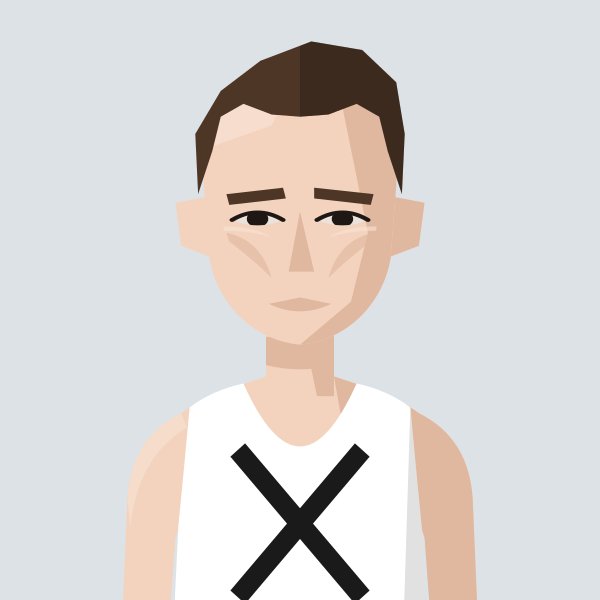
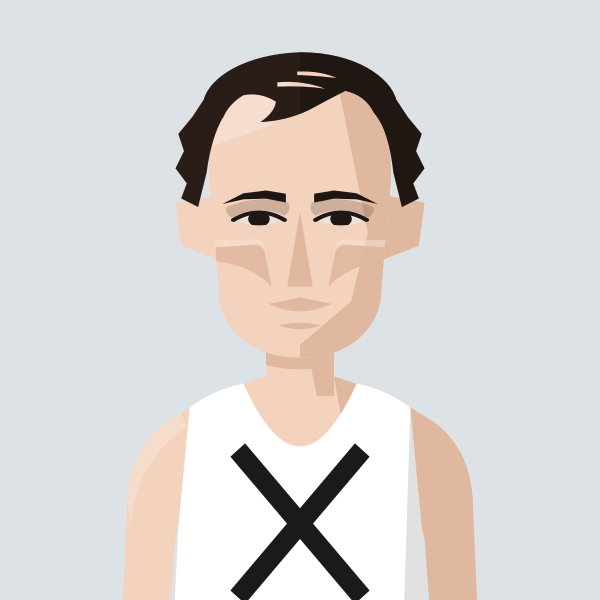
Redraw Alex Howard: thinning floppy top, bushy sides, long strong chin, deep-set eyes
Claude-Session: https://claude.ai/code/session_01MgmDWhFqnSSnP4iBLKXUZC

Changed region(s): [[0.27, 0.06, 0.72, 0.6]]

diff --git a/files/index.html b/files/index.html
@@ -827,7 +827,7 @@ const portraitFile=(name,club)=>{const k=normalizeNameForCompare(name||'').repla
 const portraitClubOf=(name,clubs)=>{for(const c of clubs||[]){if(c&&portraitFile(name,c))return c;}return null;}; /* first of these clubs we have a portrait for */
 // Athlete header figure: superstar portrait if we have one, else a grey runner in the club vest, else the plain vest icon
 // Changes whenever any portrait changes (set by tools/build_og.py), so browsers fetch fresh images instead of old cached ones
-const PORTRAIT_V='b96eb907';const PORTRAIT_WOMEN='abbey-brooke,abbie-bulbulian,adele-prince,aimee-hargreaves,aisling-ahern,alex-brown,alex-gandee,alex-marginean,alex-miller,alexa-parker,alexandra-barbour,alice-braham,alice-bridger-morales,alice-crane,alice-martin,alice-reed,alice-smith,alison-purnell,alison-thomson,amelia-pettitt,amy-clements,andrea-barber,anika-schwarze-chintapatla,anna-garnier,anna-garnier-hw,anna-sharp,annabel-hobday,annabelle-hadlow,anne-hegvold,annmarie-seymour,ava-mcandie,becky-briggs,bethan-goddard,bethanie-murray,bethany-brown,betsy-griffiths,billie-mcclosky,camilla-barden,caoimhe-nic-fhogartaigh,carolyne-baxter,catherine-bryson,catherine-eastham,catherine-kandie,cathy-ansell,charlotte-griffiths,chloe-beckett,chloe-tighe,chrissie-wellington,claire-grima,clara-pettit,clare-elms,clare-pauzers,dillan-quinn,dorchie-cockerell,eilidh-hide,elinor-skinner,eliza-grant,elizabeth-apsley,elizabeth-stavreski,ella-fennelly,ella-king-powrie,ella-may-hards,ella-newton,ellen-weir,ellie-brown,ellie-freeden,eloise-bull,emilie-arnoux,emily-barrett,emily-bradley,emily-lowery,emily-robbins,emma-gordon,emma-howsham,emma-lord,emma-rowland,estle-viljoen,evie-warren,felicity-cole,felicity-harrison,felicity-hayward,fi-maddocks,fiona-de-mauny,florence-wiggins,gabby-collison,gabriel-reynolds,gemma-newport,genevieve-blanch,georgia-curry,georgie-bruinvels,georgie-fenn,georgie-furze,georgie-grgec,gina-galbraith,grace-leyland,grace-richardson,hannah-edwards,hannah-english,heather-statham,heather-statham-cc,helena-corbin,helena-keenan,holly-nixon,holly-pan,imogen-mackie,imogen-wolsey,iona-cousland,isabel-bradley,isabel-brinsden,isabelle-pickett,isobel-hodder,jennifer-nandi,jennifer-smith,jess-reed,jess-saunders,jess-winfield,jessica-davies,jessica-lowe,jodie-favell,josephine-rhodes,julia-bleasdale,julia-wedmore,juliet-hodder,jurgita-levertaviciute,justine-lynch,karen-fenner,karen-xiang,karina-box,kate-axford,kate-williams,kathy-sharpe,katie-ellen-french,katie-good,katie-snowden,katy-hedgethorne,kitty-shepherd-cross,kristina-popadich,lara-bromilow,lara-mangan,laura-goodson,laura-miles,lauren-major,lea-adamson,lily-newton,lisa-bailey,lisa-thomas,lisa-thomas-hw,lizzie-goldie-scot,louise-cooper,lucy-jones,lucy-macalister,lucy-peters,lydia-blackmore,lydia-gallyer-barnett,maddie-mastrolonardo,maddy-whitman,maeve-kenny,margaret-coogan,martina-conner,mary-james,mary-setyabule,matilde-lomba,megan-gildea,mel-wilkins,mhairi-hall,mimi-corden-lloyd,molly-oconnor,molly-smith,monika-gajek,naomi-lenane,natalie-beadle,natalie-seymour,natasha-lodge,niamh-thompson,nicky-hayes,nicola-cartlidge,nicola-douglas,nikki-sturzaker,olivia-papaioannou,olivia-stillman,orna-mcginley,pamela-mchutchon,patricia-walker,patrizia-gnoato,penny-oliver,rachel-brown,rebecca-barrow,rebekah-edgar,ruby-carter,ruby-whyte-wilding,ruby-woolfe,sally-urquhart,sam-whiting,samantha-munday,sarah-astin,sarah-dewhirst,sarah-grover,sarah-hanley,sarah-holt,sarah-murphy,sarah-palmer,sarah-palmer-ran,sarah-riceman,sarah-young,saron-haileselase,serena-carter,sophie-cowper,sophie-harris,sophie-hicks,sophie-tooley,stacey-ward,steph-hewitt,steph-mccall,steph-mccall-cc,steph-mccall-slh,steph-mitchell,suzanne-swaine,suze-spalding,suzie-harvey,suzy-whatmough,teresa-murphy,tilly-heaton,tilly-heaton-bel,tish-jones,vic-cartwright,vicky-clarke,victoria-barthelmess,victoria-buck,vikki-filsell,zoe-doyle,zoe-macdonald,zuzana-nemeckova';const PORTRAIT_MEN='aaron-wilson,abdulla-elsadig,adam-leane,adrian-major,adrien-royer,alan-black,alan-mead,alex-brecker,alex-bruce-littlewood,alex-gutteridge,alex-harris,alex-howard,alex-janiaud,alex-lee,alex-lennon,alex-mills,alex-milne,alex-morales,alex-robinson,alex-yee,alexander-marks,amittai-ben-israel,andrew-cumine,andrew-green,andrew-penney,andrew-perfect,andrew-simms,andrew-warburton,andrius-jaksevicius,andy-coley-maud,andy-coley-maud-cc,andy-fyfe,andy-north,andy-paton,andy-weir,angus-butler,angus-lamb,anisse-ismaili,arlo-ludewick,arne-dumez,arthur-peel,ashley-goncalves,barnaby-day,barry-collins,barry-sawyer,ben-clarke,ben-coughlan,ben-harding,ben-hurley,ben-ireland,ben-millar,ben-paviour,ben-pearce,ben-racle,ben-revill,ben-reynolds,ben-scott,ben-toomer,benedict-whitby,benjamin-hilson,bernie-ford,bill-kerr,bill-weller,bill-weller-wal,bob-harrison,bob-holt,bob-lunnon,bob-rayman,bob-smith,bradley-courtney-pinn,brandon-dewar,brian-gorman,brian-wilder,caleb-hathaway,callum-stewart,cameron-dockerill,cameron-reilly,carl-delaney,charles-herrington,charlie-dabbs,charlie-dickinson,charlie-eastaugh,charlie-manning,charlie-pickett,charlie-rogers,charlie-sandison,charlie-walker,charlie-wyllie,che-compton,chris-busaileh,chris-busaileh-hhh,chris-greenwood,chris-keavey,chris-moss,chris-steer,chris-threadgold,chris-warren,christian-lee,christopher-parker,clive-gilby,clive-shippen,colin-high,colin-pearson,conall-mcnally,conall-whelan,craig-ruddy,dame-dibaba,dan-cliffe,dan-pettitt,daniel-shaw,daniel-wolff,darren-mead,dave-beard,dave-beaver,dave-glassborow,dave-holt,dave-taylor,david-anderson,david-bowers,david-grima,david-north,david-ogden,david-symons,david-walsh,david-williams,deron-fagan,dick-piotrowski,dimos-evangelidis,dominic-kiralyfi,don-anderson,don-faircloth,don-maclean,doug-maughan,duncan-rimmer,dylan-evans,dylan-mitchard,ed-brewer,ed-catmur,ed-gibson,ed-mallett,eddie-herridge,eddie-jodrell,eddie-rolls,edward-chuck,eoin-brady,eoin-molloy,ethan-mccolgan,falilou-kebe,findlay-dyer,finn-johnson,fintan-pearce,frank-tickner,frank-ward,fred-paget,fred-slemeck,freddie-hessian,garret-lee,gary-ribbons,gary-ribbons-ee,gary-staines,gary-staines-bel,gavin-eccles,geoff-biscoe,geoff-jerwood,geoff-north,george-cotton,george-gathercole,george-jackson,george-loxton,george-mallett,george-ogden,gerry-adams,gerry-north,glen-keegan,gordon-pearce,graham-macky,harrison-hayman,harry-guttridge,hector-revill,henry-hart,henry-silverstein,hugo-hewitt,huw-lobb,ian-acreman,ian-crowe-wright,ian-ellwood,ian-harkness,indy-barnes,isaac-lutaya,isaac-parker,jack-brotchie,jack-dickson,jack-dormer,jack-hampshire,jack-harrison,jack-hobden,jack-kavanagh,jack-millar,jack-ramm,jack-woods,jacob-brockmann,jake-simmonds,james-bartram,james-blackwood,james-bowler,james-estall,james-ewing,james-fox,james-hancock,james-harvey,james-hoad,james-kelly,james-mcmullan,james-murray,james-nutt,james-preston,james-roberts,james-stockings,james-ward,james-wootton,jamie-crowe,jamie-parkinson,jared-martin,jean-paul-wright,jeff-cunningham,jeremy-dempsey,jermaine-mays,jerry-watson,jim-allchin,jim-rimmer,joe-english,joe-hartley,john-baker,john-bicourt,john-bromley,john-davies,john-dear,john-foss,john-foxall,john-gilbert,john-gladwin,john-hutchins,john-kendall,john-kimaiyo,john-lee,john-lethbridge,john-mather,john-moore,john-roberts,john-sanderson,john-stow,john-sullivan,john-thresher,jon-hobbs,jon-pepper,jon-pepper-slh,jon-phillips,jon-solly,jonathan-cocker,jonathan-collier,jonathan-cornish,jonathan-ratcliffe,jonathan-tipper,jonny-neville,jonny-scott,jordan-weaver,josh-mitchell,josh-snow,josh-trigwell,jules-gevers,junior-galley,justin-chaston,justin-reid,kassa-tadesse,keith-newton,kevin-nash,kevin-quinn,kevin-sturman,kieran-barnes,kieran-white,knut-hegvold,knut-hegvold-bel,larry-ryan,lawrence-avery,lee-lintern,lewis-lloyd,liam-burthem,lionel-mann,lloyd-kempson,luke-caldwell,mack-downie,malachi-byansi,marcello-bizio,marcelo-fortes,marco-mazzotta,mark-anderson,mark-miles,mark-sinclair,mark-tennyson,mark-waller,martin-dent,martin-lake,martin-lewington,martin-shore,mathew-speed,matt-chaston,matt-jones,matt-wood,matthew-edgar,matthew-houchell,matthew-thomas,matthew-varley,max-bloor,max-heyden,max-milarvie,max-nicholls,michael-baker,michael-mccarthy,mick-woods,mike-beevor,mike-boyle,mike-cummings,mike-farmery,mike-fuller,mike-hayes,mike-kortenray,mike-nouch,mohammed-ismail,monty-hudson,morgan-roberts,nathan-visick,neil-chisholm,neil-phillips,neil-speaight,neil-wilson,nic-lukies,nick-acfield,nick-altmann,nick-bester,nick-bester-hhh,nick-buckle,nick-bundle,nick-goolab,nick-lightfoot,nick-morris,nick-torry,noah-fernandez,norman-stairs,oli-carrington,oliver-carrington,oliver-fox,oliver-reynolds,oliver-young,ollie-foote,ollie-garrod,olly-buck,owen-hind,paddy-roddy,pancho-panchev,paskar-owor,pat-newell,patrick-mcdougall,paul-calver,paul-cheetham,paul-freary,paul-magner,paul-pollock,paul-sanderson,paul-sanderson-wok,pete-carton,pete-gardner,peter-clarke,peter-giles,peter-giles-thh,peter-lighting,phil-carstairs,phil-sanders,phil-sesemann,phil-swinburn,phil-wicks,phil-woodford-smith,raj-paranandi,ralph-street,ranjit-bhatia,ray-foley,reece-edwards,rhys-boorman,rian-mccawley,richard-ashe,richard-giles,richard-henderson,richard-langley,richard-mcdowell,richard-ollington,richard-partridge,richard-sun,richard-ward,rob-armstrong,rob-kelly,rob-tuer,robert-elphick,robert-laing,robert-norville,robert-peacock,robert-sesemann,robin-boon,robin-hudson,roger-alsop,roger-alsop-bel,roger-hackney,ron-clark,ron-linstead,ronan-tanguy,rory-mcmahon,rory-orsborn,ross-braden,ross-christie,rowan-board,rowan-crichton,russell-dessaix-chin,ryan-hickey,ryan-mccallister,sam-bramwell,sam-charlton,sam-gebreselassie,sam-haughian,sam-peters,sam-sommerville,sam-tyas,samuel-dames,samuel-wilcock,sean-cordon,sebastian-anthony,simon-baines,simon-coombes,simon-coppard,simon-fairbrother,simon-holmes,simon-rayner,simon-rayner-hw,simon-wade,simon-wade-hhh,simon-waterhouse,simon-williams,simon-wurr,sonny-nicoll,spencer-barden,stephen-mcleod,stephen-sharp,steve-gardner,steve-jones,steve-smythe,steve-smythe-hhh,stuart-beaney,stuart-major,stuart-major-thh,stuart-mccallum,stuart-paton,terry-booth,thomas-dugre,thomas-gandee,thomas-gardner,thomas-renshaw,tim-alexander,tim-eglen,tim-lawrence,tim-watson,toby-cooke,toby-fletcher,tom-austin,tom-cheetham,tom-conlon,tom-davies,tom-gifford,tom-higgs,tom-jervis,tom-lole,tom-south,tom-thornley,tommy-taylor,tony-binda,tony-fairclough,tony-harran,trevor-hart,valdis-pauzers,valentin-rigori,vic-maughan,wayne-oxborough,will-cockerell,will-lewis,will-marshall,will-scott,will-stockley,william-gardner,yacin-yusuf,zach-nolan';
+const PORTRAIT_V='5c448d8e';const PORTRAIT_WOMEN='abbey-brooke,abbie-bulbulian,adele-prince,aimee-hargreaves,aisling-ahern,alex-brown,alex-gandee,alex-marginean,alex-miller,alexa-parker,alexandra-barbour,alice-braham,alice-bridger-morales,alice-crane,alice-martin,alice-reed,alice-smith,alison-purnell,alison-thomson,amelia-pettitt,amy-clements,andrea-barber,anika-schwarze-chintapatla,anna-garnier,anna-garnier-hw,anna-sharp,annabel-hobday,annabelle-hadlow,anne-hegvold,annmarie-seymour,ava-mcandie,becky-briggs,bethan-goddard,bethanie-murray,bethany-brown,betsy-griffiths,billie-mcclosky,camilla-barden,caoimhe-nic-fhogartaigh,carolyne-baxter,catherine-bryson,catherine-eastham,catherine-kandie,cathy-ansell,charlotte-griffiths,chloe-beckett,chloe-tighe,chrissie-wellington,claire-grima,clara-pettit,clare-elms,clare-pauzers,dillan-quinn,dorchie-cockerell,eilidh-hide,elinor-skinner,eliza-grant,elizabeth-apsley,elizabeth-stavreski,ella-fennelly,ella-king-powrie,ella-may-hards,ella-newton,ellen-weir,ellie-brown,ellie-freeden,eloise-bull,emilie-arnoux,emily-barrett,emily-bradley,emily-lowery,emily-robbins,emma-gordon,emma-howsham,emma-lord,emma-rowland,estle-viljoen,evie-warren,felicity-cole,felicity-harrison,felicity-hayward,fi-maddocks,fiona-de-mauny,florence-wiggins,gabby-collison,gabriel-reynolds,gemma-newport,genevieve-blanch,georgia-curry,georgie-bruinvels,georgie-fenn,georgie-furze,georgie-grgec,gina-galbraith,grace-leyland,grace-richardson,hannah-edwards,hannah-english,heather-statham,heather-statham-cc,helena-corbin,helena-keenan,holly-nixon,holly-pan,imogen-mackie,imogen-wolsey,iona-cousland,isabel-bradley,isabel-brinsden,isabelle-pickett,isobel-hodder,jennifer-nandi,jennifer-smith,jess-reed,jess-saunders,jess-winfield,jessica-davies,jessica-lowe,jodie-favell,josephine-rhodes,julia-bleasdale,julia-wedmore,juliet-hodder,jurgita-levertaviciute,justine-lynch,karen-fenner,karen-xiang,karina-box,kate-axford,kate-williams,kathy-sharpe,katie-ellen-french,katie-good,katie-snowden,katy-hedgethorne,kitty-shepherd-cross,kristina-popadich,lara-bromilow,lara-mangan,laura-goodson,laura-miles,lauren-major,lea-adamson,lily-newton,lisa-bailey,lisa-thomas,lisa-thomas-hw,lizzie-goldie-scot,louise-cooper,lucy-jones,lucy-macalister,lucy-peters,lydia-blackmore,lydia-gallyer-barnett,maddie-mastrolonardo,maddy-whitman,maeve-kenny,margaret-coogan,martina-conner,mary-james,mary-setyabule,matilde-lomba,megan-gildea,mel-wilkins,mhairi-hall,mimi-corden-lloyd,molly-oconnor,molly-smith,monika-gajek,naomi-lenane,natalie-beadle,natalie-seymour,natasha-lodge,niamh-thompson,nicky-hayes,nicola-cartlidge,nicola-douglas,nikki-sturzaker,olivia-papaioannou,olivia-stillman,orna-mcginley,pamela-mchutchon,patricia-walker,patrizia-gnoato,penny-oliver,rachel-brown,rebecca-barrow,rebekah-edgar,ruby-carter,ruby-whyte-wilding,ruby-woolfe,sally-urquhart,sam-whiting,samantha-munday,sarah-astin,sarah-dewhirst,sarah-grover,sarah-hanley,sarah-holt,sarah-murphy,sarah-palmer,sarah-palmer-ran,sarah-riceman,sarah-young,saron-haileselase,serena-carter,sophie-cowper,sophie-harris,sophie-hicks,sophie-tooley,stacey-ward,steph-hewitt,steph-mccall,steph-mccall-cc,steph-mccall-slh,steph-mitchell,suzanne-swaine,suze-spalding,suzie-harvey,suzy-whatmough,teresa-murphy,tilly-heaton,tilly-heaton-bel,tish-jones,vic-cartwright,vicky-clarke,victoria-barthelmess,victoria-buck,vikki-filsell,zoe-doyle,zoe-macdonald,zuzana-nemeckova';const PORTRAIT_MEN='aaron-wilson,abdulla-elsadig,adam-leane,adrian-major,adrien-royer,alan-black,alan-mead,alex-brecker,alex-bruce-littlewood,alex-gutteridge,alex-harris,alex-howard,alex-janiaud,alex-lee,alex-lennon,alex-mills,alex-milne,alex-morales,alex-robinson,alex-yee,alexander-marks,amittai-ben-israel,andrew-cumine,andrew-green,andrew-penney,andrew-perfect,andrew-simms,andrew-warburton,andrius-jaksevicius,andy-coley-maud,andy-coley-maud-cc,andy-fyfe,andy-north,andy-paton,andy-weir,angus-butler,angus-lamb,anisse-ismaili,arlo-ludewick,arne-dumez,arthur-peel,ashley-goncalves,barnaby-day,barry-collins,barry-sawyer,ben-clarke,ben-coughlan,ben-harding,ben-hurley,ben-ireland,ben-millar,ben-paviour,ben-pearce,ben-racle,ben-revill,ben-reynolds,ben-scott,ben-toomer,benedict-whitby,benjamin-hilson,bernie-ford,bill-kerr,bill-weller,bill-weller-wal,bob-harrison,bob-holt,bob-lunnon,bob-rayman,bob-smith,bradley-courtney-pinn,brandon-dewar,brian-gorman,brian-wilder,caleb-hathaway,callum-stewart,cameron-dockerill,cameron-reilly,carl-delaney,charles-herrington,charlie-dabbs,charlie-dickinson,charlie-eastaugh,charlie-manning,charlie-pickett,charlie-rogers,charlie-sandison,charlie-walker,charlie-wyllie,che-compton,chris-busaileh,chris-busaileh-hhh,chris-greenwood,chris-keavey,chris-moss,chris-steer,chris-threadgold,chris-warren,christian-lee,christopher-parker,clive-gilby,clive-shippen,colin-high,colin-pearson,conall-mcnally,conall-whelan,craig-ruddy,dame-dibaba,dan-cliffe,dan-pettitt,daniel-shaw,daniel-wolff,darren-mead,dave-beard,dave-beaver,dave-glassborow,dave-holt,dave-taylor,david-anderson,david-bowers,david-grima,david-north,david-ogden,david-symons,david-walsh,david-williams,deron-fagan,dick-piotrowski,dimos-evangelidis,dominic-kiralyfi,don-anderson,don-faircloth,don-maclean,doug-maughan,duncan-rimmer,dylan-evans,dylan-mitchard,ed-brewer,ed-catmur,ed-gibson,ed-mallett,eddie-herridge,eddie-jodrell,eddie-rolls,edward-chuck,eoin-brady,eoin-molloy,ethan-mccolgan,falilou-kebe,findlay-dyer,finn-johnson,fintan-pearce,frank-tickner,frank-ward,fred-paget,fred-slemeck,freddie-hessian,garret-lee,gary-ribbons,gary-ribbons-ee,gary-staines,gary-staines-bel,gavin-eccles,geoff-biscoe,geoff-jerwood,geoff-north,george-cotton,george-gathercole,george-jackson,george-loxton,george-mallett,george-ogden,gerry-adams,gerry-north,glen-keegan,gordon-pearce,graham-macky,harrison-hayman,harry-guttridge,hector-revill,henry-hart,henry-silverstein,hugo-hewitt,huw-lobb,ian-acreman,ian-crowe-wright,ian-ellwood,ian-harkness,indy-barnes,isaac-lutaya,isaac-parker,jack-brotchie,jack-dickson,jack-dormer,jack-hampshire,jack-harrison,jack-hobden,jack-kavanagh,jack-millar,jack-ramm,jack-woods,jacob-brockmann,jake-simmonds,james-bartram,james-blackwood,james-bowler,james-estall,james-ewing,james-fox,james-hancock,james-harvey,james-hoad,james-kelly,james-mcmullan,james-murray,james-nutt,james-preston,james-roberts,james-stockings,james-ward,james-wootton,jamie-crowe,jamie-parkinson,jared-martin,jean-paul-wright,jeff-cunningham,jeremy-dempsey,jermaine-mays,jerry-watson,jim-allchin,jim-rimmer,joe-english,joe-hartley,john-baker,john-bicourt,john-bromley,john-davies,john-dear,john-foss,john-foxall,john-gilbert,john-gladwin,john-hutchins,john-kendall,john-kimaiyo,john-lee,john-lethbridge,john-mather,john-moore,john-roberts,john-sanderson,john-stow,john-sullivan,john-thresher,jon-hobbs,jon-pepper,jon-pepper-slh,jon-phillips,jon-solly,jonathan-cocker,jonathan-collier,jonathan-cornish,jonathan-ratcliffe,jonathan-tipper,jonny-neville,jonny-scott,jordan-weaver,josh-mitchell,josh-snow,josh-trigwell,jules-gevers,junior-galley,justin-chaston,justin-reid,kassa-tadesse,keith-newton,kevin-nash,kevin-quinn,kevin-sturman,kieran-barnes,kieran-white,knut-hegvold,knut-hegvold-bel,larry-ryan,lawrence-avery,lee-lintern,lewis-lloyd,liam-burthem,lionel-mann,lloyd-kempson,luke-caldwell,mack-downie,malachi-byansi,marcello-bizio,marcelo-fortes,marco-mazzotta,mark-anderson,mark-miles,mark-sinclair,mark-tennyson,mark-waller,martin-dent,martin-lake,martin-lewington,martin-shore,mathew-speed,matt-chaston,matt-jones,matt-wood,matthew-edgar,matthew-houchell,matthew-thomas,matthew-varley,max-bloor,max-heyden,max-milarvie,max-nicholls,michael-baker,michael-mccarthy,mick-woods,mike-beevor,mike-boyle,mike-cummings,mike-farmery,mike-fuller,mike-hayes,mike-kortenray,mike-nouch,mohammed-ismail,monty-hudson,morgan-roberts,nathan-visick,neil-chisholm,neil-phillips,neil-speaight,neil-wilson,nic-lukies,nick-acfield,nick-altmann,nick-bester,nick-bester-hhh,nick-buckle,nick-bundle,nick-goolab,nick-lightfoot,nick-morris,nick-torry,noah-fernandez,norman-stairs,oli-carrington,oliver-carrington,oliver-fox,oliver-reynolds,oliver-young,ollie-foote,ollie-garrod,olly-buck,owen-hind,paddy-roddy,pancho-panchev,paskar-owor,pat-newell,patrick-mcdougall,paul-calver,paul-cheetham,paul-freary,paul-magner,paul-pollock,paul-sanderson,paul-sanderson-wok,pete-carton,pete-gardner,peter-clarke,peter-giles,peter-giles-thh,peter-lighting,phil-carstairs,phil-sanders,phil-sesemann,phil-swinburn,phil-wicks,phil-woodford-smith,raj-paranandi,ralph-street,ranjit-bhatia,ray-foley,reece-edwards,rhys-boorman,rian-mccawley,richard-ashe,richard-giles,richard-henderson,richard-langley,richard-mcdowell,richard-ollington,richard-partridge,richard-sun,richard-ward,rob-armstrong,rob-kelly,rob-tuer,robert-elphick,robert-laing,robert-norville,robert-peacock,robert-sesemann,robin-boon,robin-hudson,roger-alsop,roger-alsop-bel,roger-hackney,ron-clark,ron-linstead,ronan-tanguy,rory-mcmahon,rory-orsborn,ross-braden,ross-christie,rowan-board,rowan-crichton,russell-dessaix-chin,ryan-hickey,ryan-mccallister,sam-bramwell,sam-charlton,sam-gebreselassie,sam-haughian,sam-peters,sam-sommerville,sam-tyas,samuel-dames,samuel-wilcock,sean-cordon,sebastian-anthony,simon-baines,simon-coombes,simon-coppard,simon-fairbrother,simon-holmes,simon-rayner,simon-rayner-hw,simon-wade,simon-wade-hhh,simon-waterhouse,simon-williams,simon-wurr,sonny-nicoll,spencer-barden,stephen-mcleod,stephen-sharp,steve-gardner,steve-jones,steve-smythe,steve-smythe-hhh,stuart-beaney,stuart-major,stuart-major-thh,stuart-mccallum,stuart-paton,terry-booth,thomas-dugre,thomas-gandee,thomas-gardner,thomas-renshaw,tim-alexander,tim-eglen,tim-lawrence,tim-watson,toby-cooke,toby-fletcher,tom-austin,tom-cheetham,tom-conlon,tom-davies,tom-gifford,tom-higgs,tom-jervis,tom-lole,tom-south,tom-thornley,tommy-taylor,tony-binda,tony-fairclough,tony-harran,trevor-hart,valdis-pauzers,valentin-rigori,vic-maughan,wayne-oxborough,will-cockerell,will-lewis,will-marshall,will-scott,will-stockley,william-gardner,yacin-yusuf,zach-nolan';
 // Runners whose dog pops up on their own profile page (a -dog.svg version of their portrait)
 const PROFILE_DOGS=new Set(['john-sanderson','penny-oliver','james-hancock','angus-butler']);
 const AthletePortrait=({name,club,w,fill,onClick,blink})=>{const[failed,setFailed]=useState(false);const file=portraitFile(name,club);const src0=file?`/portraits/athletes/${file}.svg?v=${PORTRAIT_V}`:PORTRAIT_CLUBS.has(club)?`/portraits/clubs/${club.replace(/\//g,'').replace(/&/g,'and')}.svg?v=${PORTRAIT_V}`:null;const blinkSrc=useBlinkSrc(file?(PROFILE_DOGS.has(file)?`/portraits/athletes/${file}-dog.svg?v=${PORTRAIT_V}`:src0):null,!!blink);const src=blinkSrc||src0;if(!src||failed)return<div onClick={onClick} className={onClick?'cursor-pointer':''}><ClubShield club={club} size={w}/></div>;const h=Math.round(w*148/126),ih=Math.round(w*1.4);if(fill)return<div onClick={onClick} className="cursor-pointer" style={{alignSelf:'stretch',minHeight:h,aspectRatio:'126 / 148',flexShrink:0,position:'relative',borderRadius:4,overflow:'hidden'}}><img src={src} alt={file?`Portrait of ${name.replace(/\s*\([^)]*\)$/,'')}`:`Runner in ${CLUBS[club]?.name||club} vest`} style={{position:'absolute',top:0,left:0,display:'block',width:'100%',height:'auto'}} onError={()=>setFailed(true)}/></div>;return<div style={{width:w,height:h,borderRadius:4,overflow:'hidden',flexShrink:0}}><img src={src} alt={file?`Portrait of ${name.replace(/\s*\([^)]*\)$/,'')}`:`Runner in ${CLUBS[club]?.name||club} vest`} width={w} height={ih} style={{display:'block',width:w,height:ih}} onError={()=>setFailed(true)}/></div>;};

diff --git a/tools/gen_portraits.py b/tools/gen_portraits.py
@@ -1853,4 +1853,22 @@ def cheekbones(svg, skin=1, tag="f", depth=1.0):
 # Dylan Evans (BEL), redrawn Oct 2026: short light-brown quiff fitted to a long narrow head (full hairline, no recede),
 # prominent high cheekbones, solid straight brows angling down at the outer ends, long straight nose
 save("evans", cheekbones(nose(angledbrows(brows(eyes(figure("BEL", skin=1, hair="quiffslim", hair_colour="#8A5E3A", brow_colour="#7A5236", jaw="long")), 0, 0, 2)), 0.9, 1.15)))
+# ---- Bushy sides with a thinning floppy top, deep-set eyes, long strong chin (Oct 2026, first used for Alex Howard) ----
+HAIR["floppythin"] = ('<path fill-rule="evenodd" d="M64,106 L58,102 L60,95 L56,88 L59,80 L57,72 L62,64 L66,56 C68,46 80,35 100,34 C120,34 132,46 134,56 L138,64 L143,72 L141,80 L144,88 L140,95 L142,102 L136,106 L133,90 C132,78 130,68 126,62 Q123,54 116,52 Q110,56 103,61 Q95,66 86,66.5 Q91,62 91.5,57 Q86,52.5 80,54 Q75,58 73,64 C70,70 68,80 67,90 Z'
+    ' M92,48 Q101,47 109,51 Q101,49.5 92,50 Z M99,43 Q107,42.5 113,46 Q106,45 99,44.6 Z"/>')  # bushy ragged sides over the ears, thinning floppy top with a deep temple recede and scalp showing through (Alex Howard)
+def sockets(svg, skin=1, tag="f", depth=1.0):
+    """Deep-set eyes: soft shadow in each eye socket between the brow and the upper lid."""
+    sk, dk, lt = SKIN[skin]
+    return _after_lids(svg, f'<g clip-path="url(#h{tag})" fill="#4A2E22" opacity="{.16*depth:.2f}"><path d="M74,106 Q85,100 96,104 Q97,108 94.5,110 Q85,104.5 76,111 Q73.5,109 74,106 Z"/><path d="M126,106 Q115,100 104,104 Q103,108 105.5,110 Q115,104.5 124,111 Q126.5,109 126,106 Z"/></g>')
+HEAD_LONGCHIN = "M68,96 C66,58 81,40 100,40 C119,40 134,58 132,96 L130,124 L128.5,149 Q127.5,159 120.5,167.5 Q112.5,176 100,176 Q87.5,176 79.5,167.5 Q72.5,159 71.5,149 L70,124 Z"  # long face, squarish jaw and a long, strong, broad chin (Alex Howard)
+def longchin(svg):
+    """Swap the broad-chin head (jaw="broadchin") for a longer face with a longer, stronger chin."""
+    return svg.replace(HEAD_BROADCHIN, HEAD_LONGCHIN)
+def chindef(svg, skin=1, tag="f"):
+    """Definition under the mouth: a soft shadow in the dip between lower lip and chin."""
+    sk, dk, lt = SKIN[skin]
+    return _after_lids(svg, f'<path d="M92.5,161 Q100,158.6 107.5,161 Q100,164.6 92.5,161 Z" fill="{dk}"/>')
+# Alex Howard (THH), redrawn Oct 2026: very dark hair, bushy ragged sides over the ears, thinning floppy top with a deep temple recede,
+# long face with a squarish jaw and long strong chin, definition under the mouth, full curved brows over deep-set eyes, high cheekbones, long nose
+save("alex-howard", chindef(longchin(cheekbones(sockets(nose(archbrows(eyes(figure("THH", skin=1, hair="floppythin", hair_colour="#2A1D17", brow_colour="#1E1612", jaw="broadchin"), None, -0.5)), 1.0, 1.25), depth=1.4), depth=1.3))))
 export_site()
